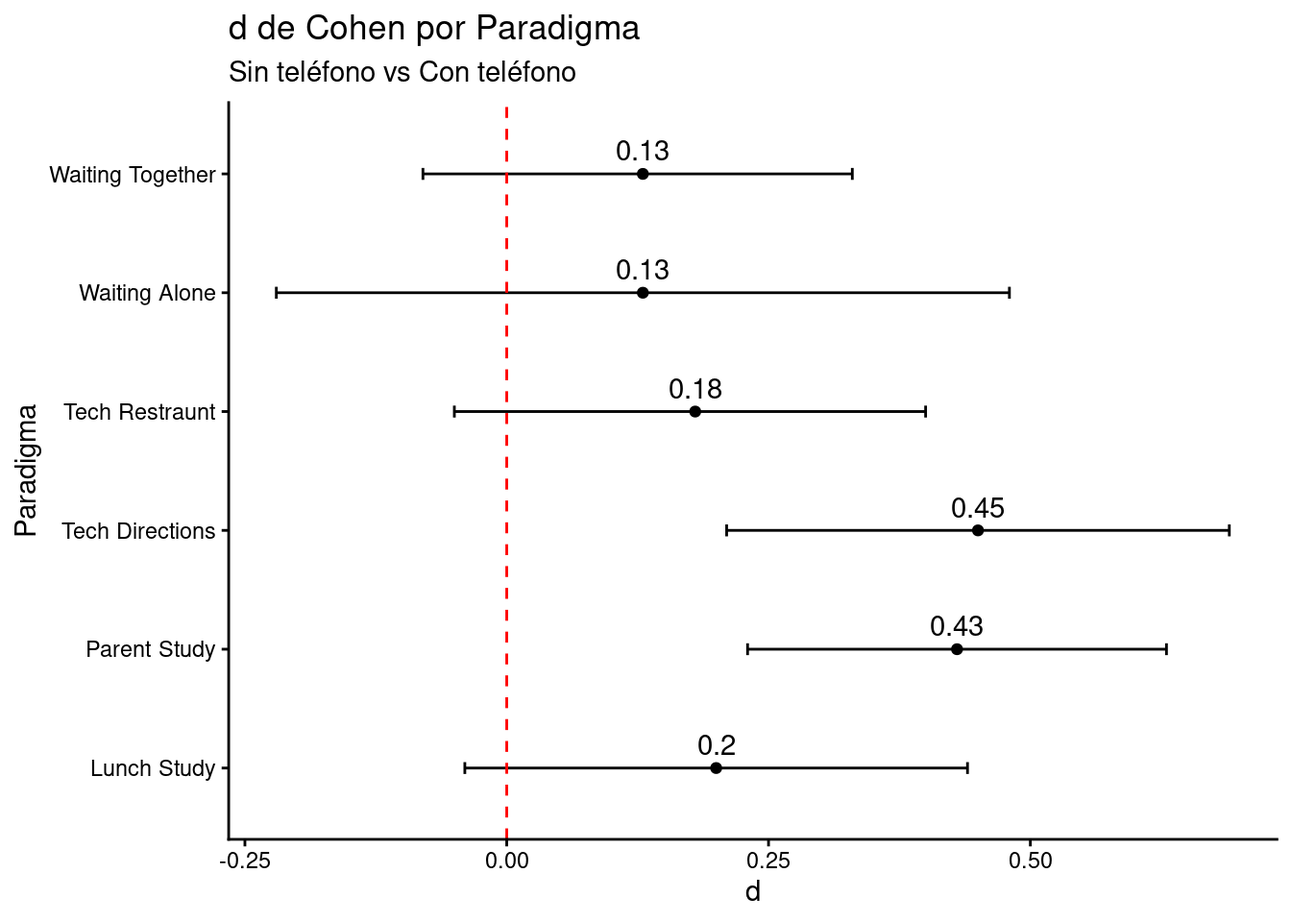
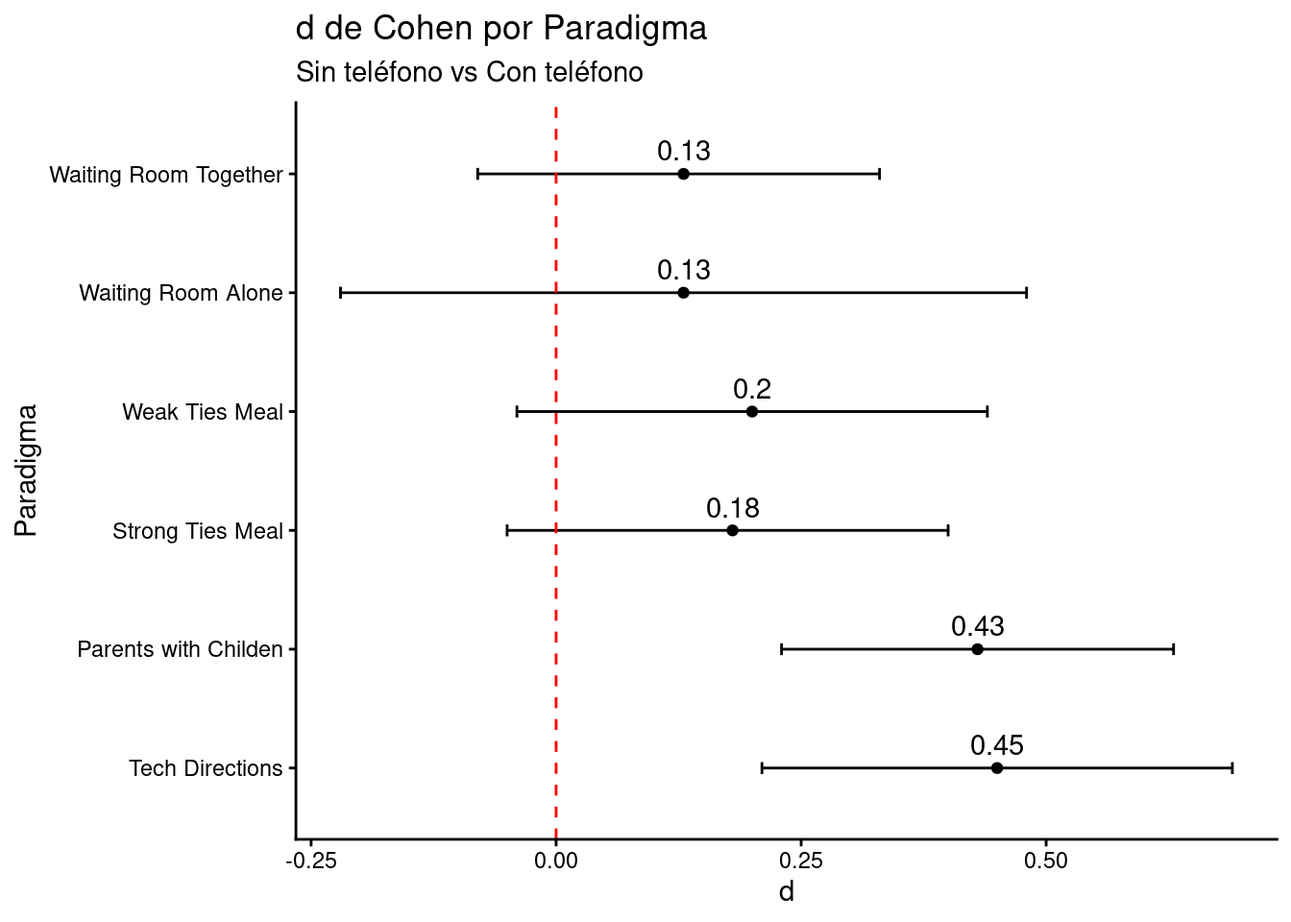
scripts con gráfico y ***

diff --git a/inferencia-u5/repeticion.html b/inferencia-u5/repeticion.html
@@ -145,67 +145,26 @@ Loading required package: effectsize</code></pre>
 <h3 class="anchored" data-anchor-id="importación-de-datos">Importación de Datos</h3>
 <div class="cell">
 <div class="code-copy-outer-scaffold"><div class="sourceCode cell-code" id="cb4"><pre class="sourceCode r code-with-copy"><code class="sourceCode r"><span id="cb4-1"><a href="#cb4-1" aria-hidden="true" tabindex="-1"></a>mega_analysis <span class="ot">&lt;-</span> <span class="fu">read_sav</span>(<span class="st">"articles/x73m9-osfstorage-archive-mega/MegaAnalysisMaster.sav"</span>)</span>
-<span id="cb4-2"><a href="#cb4-2" aria-hidden="true" tabindex="-1"></a>tech_directions <span class="ot">&lt;-</span> <span class="fu">read_sav</span>(<span class="st">"articles/x73m9-osfstorage-archive-mega/Tech_Directions_Tight.sav"</span>)</span>
-<span id="cb4-3"><a href="#cb4-3" aria-hidden="true" tabindex="-1"></a></span>
-<span id="cb4-4"><a href="#cb4-4" aria-hidden="true" tabindex="-1"></a><span class="fu">head</span>(mega_analysis)</span></code></pre></div><button title="Copy to Clipboard" class="code-copy-button"><i class="bi"></i></button></div>
-<div class="cell-output cell-output-stdout">
-<pre><code># A tibble: 6 × 125
-  Has_Phone_ToFix Group   Age Gender_ToFix Feel_Distant Feel_Close Has_Phone
-            &lt;dbl&gt; &lt;dbl&gt; &lt;dbl&gt;        &lt;dbl&gt;        &lt;dbl&gt;      &lt;dbl&gt;     &lt;dbl&gt;
-1               0    73    37            2            0          6        NA
-2               1     0    17            1            5          2         0
-3               1     0    18            0            1          6         0
-4               1     0    18            0            2          7         0
-5               1     0    18            0            4          4         0
-6               1     0    18            0            4          6         0
-# ℹ 118 more variables: Gender &lt;dbl&gt;, Emotional_Valance_Std &lt;dbl&gt;,
-#   Feel_Distant_Std &lt;dbl&gt;, Feel_Close_Std &lt;dbl&gt;, SocialConnection &lt;dbl&gt;,
-#   SocialConnection_Std &lt;dbl&gt;, Phone_Use_During_Work &lt;dbl&gt;,
-#   Phone_Use_During_Entertain &lt;dbl&gt;, Phone_Use_During_SocMedia &lt;dbl&gt;,
-#   Phone_Use_During_Socialize &lt;dbl&gt;, Valence &lt;dbl&gt;, Phone_Use_Frequency &lt;dbl&gt;,
-#   Phone_Use_Frequency_Std &lt;dbl&gt;, Distracted &lt;dbl&gt;, Concentrated &lt;dbl&gt;,
-#   ConcentratedR &lt;dbl&gt;, DistractComb &lt;dbl&gt;, DistractComb_Std &lt;dbl&gt;, …</code></pre>
-</div>
+<span id="cb4-2"><a href="#cb4-2" aria-hidden="true" tabindex="-1"></a>tech_directions <span class="ot">&lt;-</span> <span class="fu">read_sav</span>(<span class="st">"articles/x73m9-osfstorage-archive-mega/Tech_Directions_Tight.sav"</span>)</span></code></pre></div><button title="Copy to Clipboard" class="code-copy-button"><i class="bi"></i></button></div>
 </div>
 <div class="cell">
-<div class="code-copy-outer-scaffold"><div class="sourceCode cell-code" id="cb6"><pre class="sourceCode r code-with-copy"><code class="sourceCode r"><span id="cb6-1"><a href="#cb6-1" aria-hidden="true" tabindex="-1"></a><span class="fu">head</span>(tech_directions)</span></code></pre></div><button title="Copy to Clipboard" class="code-copy-button"><i class="bi"></i></button></div>
-<div class="cell-output cell-output-stdout">
-<pre><code># A tibble: 6 × 78
-  Has_Phone_ToFix        Condition_Success_USENOUSE Group ExclusionReasons   Age
-  &lt;dbl+lbl&gt;              &lt;dbl+lbl&gt;                  &lt;dbl&gt; &lt;chr&gt;            &lt;dbl&gt;
-1 1 [no phone condition] NA                            29 ""                  23
-2 1 [no phone condition] NA                           168 ""                  18
-3 2 [Phone Condition]    NA                            41 ""                  21
-4 2 [Phone Condition]    NA                           129 ""                  18
-5 2 [Phone Condition]    NA                            61 ""                  18
-6 1 [no phone condition] NA                           119 ""                  21
-# ℹ 73 more variables: Gender_ToFix &lt;dbl+lbl&gt;, Gender_Other &lt;chr&gt;,
-#   Ethnicity &lt;dbl+lbl&gt;, Other_Ethnicity &lt;chr&gt;, Feel_Distant &lt;dbl+lbl&gt;,
-#   Feel_Close &lt;dbl+lbl&gt;, Phone_Type &lt;dbl+lbl&gt;, Phone_Type_Other &lt;chr&gt;,
-#   Use_Phone_During &lt;dbl+lbl&gt;, Phone_Status_During &lt;dbl+lbl&gt;,
-#   Use_Phone_Rater &lt;dbl+lbl&gt;, Phone_Use_During_Work &lt;dbl+lbl&gt;,
-#   Phone_Use_During_Entertain &lt;dbl+lbl&gt;, Phone_Use_During_SocMedia &lt;dbl+lbl&gt;,
-#   Phone_Use_During_Socialize &lt;dbl+lbl&gt;, …</code></pre>
-</div>
-</div>
-<div class="cell">
-<div class="code-copy-outer-scaffold"><div class="sourceCode cell-code" id="cb8"><pre class="sourceCode r code-with-copy"><code class="sourceCode r"><span id="cb8-1"><a href="#cb8-1" aria-hidden="true" tabindex="-1"></a><span class="do">### Conversión de variables cualitativas a factores</span></span>
-<span id="cb8-2"><a href="#cb8-2" aria-hidden="true" tabindex="-1"></a>mega_analysis<span class="sc">$</span>Gender <span class="ot">&lt;-</span> <span class="fu">as.factor</span>(mega_analysis<span class="sc">$</span>Gender)</span>
-<span id="cb8-3"><a href="#cb8-3" aria-hidden="true" tabindex="-1"></a>mega_analysis<span class="sc">$</span>Has_Phone <span class="ot">&lt;-</span> <span class="fu">as.factor</span>(mega_analysis<span class="sc">$</span>Has_Phone)</span>
-<span id="cb8-4"><a href="#cb8-4" aria-hidden="true" tabindex="-1"></a></span>
-<span id="cb8-5"><a href="#cb8-5" aria-hidden="true" tabindex="-1"></a>mega_analysis<span class="sc">$</span>Gender <span class="ot">&lt;-</span> <span class="fu">recode_factor</span>(mega_analysis<span class="sc">$</span>Gender, <span class="st">`</span><span class="at">0</span><span class="st">`</span> <span class="ot">=</span> <span class="st">"Female"</span>, <span class="st">`</span><span class="at">1</span><span class="st">`</span> <span class="ot">=</span> <span class="st">"Male"</span>)</span>
-<span id="cb8-6"><a href="#cb8-6" aria-hidden="true" tabindex="-1"></a>mega_analysis<span class="sc">$</span>Has_Phone<span class="ot">&lt;-</span> <span class="fu">recode_factor</span>(mega_analysis<span class="sc">$</span>Has_Phone, <span class="st">`</span><span class="at">0</span><span class="st">`</span> <span class="ot">=</span> <span class="st">"No Phone"</span>, <span class="st">`</span><span class="at">1</span><span class="st">`</span> <span class="ot">=</span> <span class="st">"Phone"</span>)</span>
-<span id="cb8-7"><a href="#cb8-7" aria-hidden="true" tabindex="-1"></a></span>
-<span id="cb8-8"><a href="#cb8-8" aria-hidden="true" tabindex="-1"></a>mega_analysis<span class="sc">$</span>ParadigmsCombined_Factor <span class="ot">&lt;-</span> <span class="fu">recode_factor</span>(mega_analysis<span class="sc">$</span>ParadigmsCombined, <span class="st">`</span><span class="at">1</span><span class="st">`</span> <span class="ot">=</span> <span class="st">"Tech Directions"</span>, <span class="st">`</span><span class="at">2</span><span class="st">`</span> <span class="ot">=</span> <span class="st">"Tech Restraunt"</span>, <span class="st">`</span><span class="at">3</span><span class="st">`</span> <span class="ot">=</span> <span class="st">"Waiting Alone"</span>, <span class="st">`</span><span class="at">4</span><span class="st">`</span> <span class="ot">=</span> <span class="st">"Waiting Together"</span>, <span class="st">`</span><span class="at">5</span><span class="st">`</span> <span class="ot">=</span> <span class="st">"Parent Study"</span>, <span class="st">`</span><span class="at">6</span><span class="st">`</span> <span class="ot">=</span> <span class="st">"Lunch Study"</span>)</span>
-<span id="cb8-9"><a href="#cb8-9" aria-hidden="true" tabindex="-1"></a></span>
-<span id="cb8-10"><a href="#cb8-10" aria-hidden="true" tabindex="-1"></a>mega_analysis_graphs <span class="ot">&lt;-</span> <span class="fu">subset</span>(mega_analysis, Gender <span class="sc">==</span> <span class="st">"Female"</span> <span class="sc">|</span> Gender <span class="sc">==</span> <span class="st">"Male"</span>)</span>
-<span id="cb8-11"><a href="#cb8-11" aria-hidden="true" tabindex="-1"></a>mega_analysis_graphs <span class="ot">&lt;-</span> <span class="fu">subset</span>(mega_analysis_graphs, Has_Phone <span class="sc">==</span> <span class="st">"No Phone"</span><span class="sc">|</span>  Has_Phone <span class="sc">==</span> <span class="st">"Phone"</span>)</span>
-<span id="cb8-12"><a href="#cb8-12" aria-hidden="true" tabindex="-1"></a></span>
-<span id="cb8-13"><a href="#cb8-13" aria-hidden="true" tabindex="-1"></a></span>
-<span id="cb8-14"><a href="#cb8-14" aria-hidden="true" tabindex="-1"></a>tech_directions<span class="sc">$</span>Gender <span class="ot">&lt;-</span> <span class="fu">as.factor</span>(tech_directions<span class="sc">$</span>Gender)</span>
-<span id="cb8-15"><a href="#cb8-15" aria-hidden="true" tabindex="-1"></a>tech_directions<span class="sc">$</span>Has_Phone <span class="ot">&lt;-</span> <span class="fu">as.factor</span>(tech_directions<span class="sc">$</span>Has_Phone)</span>
-<span id="cb8-16"><a href="#cb8-16" aria-hidden="true" tabindex="-1"></a>tech_directions<span class="sc">$</span>Gender <span class="ot">&lt;-</span> <span class="fu">recode_factor</span>(tech_directions<span class="sc">$</span>Gender, <span class="st">`</span><span class="at">0</span><span class="st">`</span> <span class="ot">=</span> <span class="st">"Female"</span>, <span class="st">`</span><span class="at">1</span><span class="st">`</span> <span class="ot">=</span> <span class="st">"Male"</span>)</span>
-<span id="cb8-17"><a href="#cb8-17" aria-hidden="true" tabindex="-1"></a>tech_directions<span class="sc">$</span>Has_Phone<span class="ot">&lt;-</span> <span class="fu">recode_factor</span>(tech_directions<span class="sc">$</span>Has_Phone, <span class="st">`</span><span class="at">0</span><span class="st">`</span> <span class="ot">=</span> <span class="st">"No Phone"</span>, <span class="st">`</span><span class="at">1</span><span class="st">`</span> <span class="ot">=</span> <span class="st">"Phone"</span>)</span></code></pre></div><button title="Copy to Clipboard" class="code-copy-button"><i class="bi"></i></button></div>
+<div class="code-copy-outer-scaffold"><div class="sourceCode cell-code" id="cb5"><pre class="sourceCode r code-with-copy"><code class="sourceCode r"><span id="cb5-1"><a href="#cb5-1" aria-hidden="true" tabindex="-1"></a><span class="do">### Conversión de variables cualitativas a factores</span></span>
+<span id="cb5-2"><a href="#cb5-2" aria-hidden="true" tabindex="-1"></a>mega_analysis<span class="sc">$</span>Gender <span class="ot">&lt;-</span> <span class="fu">as.factor</span>(mega_analysis<span class="sc">$</span>Gender)</span>
+<span id="cb5-3"><a href="#cb5-3" aria-hidden="true" tabindex="-1"></a>mega_analysis<span class="sc">$</span>Has_Phone <span class="ot">&lt;-</span> <span class="fu">as.factor</span>(mega_analysis<span class="sc">$</span>Has_Phone)</span>
+<span id="cb5-4"><a href="#cb5-4" aria-hidden="true" tabindex="-1"></a></span>
+<span id="cb5-5"><a href="#cb5-5" aria-hidden="true" tabindex="-1"></a>mega_analysis<span class="sc">$</span>Gender <span class="ot">&lt;-</span> <span class="fu">recode_factor</span>(mega_analysis<span class="sc">$</span>Gender, <span class="st">`</span><span class="at">0</span><span class="st">`</span> <span class="ot">=</span> <span class="st">"Female"</span>, <span class="st">`</span><span class="at">1</span><span class="st">`</span> <span class="ot">=</span> <span class="st">"Male"</span>)</span>
+<span id="cb5-6"><a href="#cb5-6" aria-hidden="true" tabindex="-1"></a>mega_analysis<span class="sc">$</span>Has_Phone<span class="ot">&lt;-</span> <span class="fu">recode_factor</span>(mega_analysis<span class="sc">$</span>Has_Phone, <span class="st">`</span><span class="at">0</span><span class="st">`</span> <span class="ot">=</span> <span class="st">"No Phone"</span>, <span class="st">`</span><span class="at">1</span><span class="st">`</span> <span class="ot">=</span> <span class="st">"Phone"</span>)</span>
+<span id="cb5-7"><a href="#cb5-7" aria-hidden="true" tabindex="-1"></a></span>
+<span id="cb5-8"><a href="#cb5-8" aria-hidden="true" tabindex="-1"></a>mega_analysis<span class="sc">$</span>ParadigmsCombined_Factor <span class="ot">&lt;-</span> <span class="fu">recode_factor</span>(mega_analysis<span class="sc">$</span>ParadigmsCombined, <span class="st">`</span><span class="at">1</span><span class="st">`</span> <span class="ot">=</span> <span class="st">"Tech Directions"</span>, <span class="st">`</span><span class="at">2</span><span class="st">`</span> <span class="ot">=</span> <span class="st">"Strong Ties Meal"</span>, <span class="st">`</span><span class="at">3</span><span class="st">`</span> <span class="ot">=</span> <span class="st">"Waiting Room Alone"</span>, <span class="st">`</span><span class="at">4</span><span class="st">`</span> <span class="ot">=</span> <span class="st">"Waiting Room Together"</span>, <span class="st">`</span><span class="at">5</span><span class="st">`</span> <span class="ot">=</span> <span class="st">"Parents with Childen"</span>, <span class="st">`</span><span class="at">6</span><span class="st">`</span> <span class="ot">=</span> <span class="st">"Weak Ties Meal"</span>)</span>
+<span id="cb5-9"><a href="#cb5-9" aria-hidden="true" tabindex="-1"></a></span>
+<span id="cb5-10"><a href="#cb5-10" aria-hidden="true" tabindex="-1"></a>mega_analysis_graphs <span class="ot">&lt;-</span> <span class="fu">subset</span>(mega_analysis, Gender <span class="sc">==</span> <span class="st">"Female"</span> <span class="sc">|</span> Gender <span class="sc">==</span> <span class="st">"Male"</span>)</span>
+<span id="cb5-11"><a href="#cb5-11" aria-hidden="true" tabindex="-1"></a>mega_analysis_graphs <span class="ot">&lt;-</span> <span class="fu">subset</span>(mega_analysis_graphs, Has_Phone <span class="sc">==</span> <span class="st">"No Phone"</span><span class="sc">|</span>  Has_Phone <span class="sc">==</span> <span class="st">"Phone"</span>)</span>
+<span id="cb5-12"><a href="#cb5-12" aria-hidden="true" tabindex="-1"></a></span>
+<span id="cb5-13"><a href="#cb5-13" aria-hidden="true" tabindex="-1"></a></span>
+<span id="cb5-14"><a href="#cb5-14" aria-hidden="true" tabindex="-1"></a>tech_directions<span class="sc">$</span>Gender <span class="ot">&lt;-</span> <span class="fu">as.factor</span>(tech_directions<span class="sc">$</span>Gender)</span>
+<span id="cb5-15"><a href="#cb5-15" aria-hidden="true" tabindex="-1"></a>tech_directions<span class="sc">$</span>Has_Phone <span class="ot">&lt;-</span> <span class="fu">as.factor</span>(tech_directions<span class="sc">$</span>Has_Phone)</span>
+<span id="cb5-16"><a href="#cb5-16" aria-hidden="true" tabindex="-1"></a>tech_directions<span class="sc">$</span>Gender <span class="ot">&lt;-</span> <span class="fu">recode_factor</span>(tech_directions<span class="sc">$</span>Gender, <span class="st">`</span><span class="at">0</span><span class="st">`</span> <span class="ot">=</span> <span class="st">"Female"</span>, <span class="st">`</span><span class="at">1</span><span class="st">`</span> <span class="ot">=</span> <span class="st">"Male"</span>)</span>
+<span id="cb5-17"><a href="#cb5-17" aria-hidden="true" tabindex="-1"></a>tech_directions<span class="sc">$</span>Has_Phone<span class="ot">&lt;-</span> <span class="fu">recode_factor</span>(tech_directions<span class="sc">$</span>Has_Phone, <span class="st">`</span><span class="at">0</span><span class="st">`</span> <span class="ot">=</span> <span class="st">"No Phone"</span>, <span class="st">`</span><span class="at">1</span><span class="st">`</span> <span class="ot">=</span> <span class="st">"Phone"</span>)</span></code></pre></div><button title="Copy to Clipboard" class="code-copy-button"><i class="bi"></i></button></div>
 </div>
 </section>
 </section>
@@ -214,11 +173,11 @@ Loading required package: effectsize</code></pre>
 <section id="numero-de-observaciones" class="level3">
 <h3 class="anchored" data-anchor-id="numero-de-observaciones">Numero de observaciones</h3>
 <div class="cell">
-<div class="code-copy-outer-scaffold"><div class="sourceCode cell-code" id="cb9"><pre class="sourceCode r code-with-copy"><code class="sourceCode r"><span id="cb9-1"><a href="#cb9-1" aria-hidden="true" tabindex="-1"></a>model_data <span class="ot">&lt;-</span> mega_analysis[, <span class="fu">c</span>(<span class="st">"SocialConnection_Std"</span>, <span class="st">"Age"</span>, <span class="st">"Has_Phone"</span>, <span class="st">"Gender"</span>, <span class="st">"ParadigmsCombined_Factor"</span>)]</span>
-<span id="cb9-2"><a href="#cb9-2" aria-hidden="true" tabindex="-1"></a><span class="fu">print</span>(<span class="fu">data.frame</span>(</span>
-<span id="cb9-3"><a href="#cb9-3" aria-hidden="true" tabindex="-1"></a>  <span class="at">todos=</span><span class="fu">c</span>(<span class="fu">nrow</span>(model_data)),</span>
-<span id="cb9-4"><a href="#cb9-4" aria-hidden="true" tabindex="-1"></a>  <span class="at">casos_completos=</span><span class="fu">c</span>(<span class="fu">sum</span>(<span class="fu">complete.cases</span>(model_data))),</span>
-<span id="cb9-5"><a href="#cb9-5" aria-hidden="true" tabindex="-1"></a>  <span class="at">casos_incompletos=</span><span class="fu">c</span>(<span class="fu">sum</span>(<span class="sc">!</span><span class="fu">complete.cases</span>(model_data)))))</span></code></pre></div><button title="Copy to Clipboard" class="code-copy-button"><i class="bi"></i></button></div>
+<div class="code-copy-outer-scaffold"><div class="sourceCode cell-code" id="cb6"><pre class="sourceCode r code-with-copy"><code class="sourceCode r"><span id="cb6-1"><a href="#cb6-1" aria-hidden="true" tabindex="-1"></a>model_data <span class="ot">&lt;-</span> mega_analysis[, <span class="fu">c</span>(<span class="st">"SocialConnection_Std"</span>, <span class="st">"Age"</span>, <span class="st">"Has_Phone"</span>, <span class="st">"Gender"</span>, <span class="st">"ParadigmsCombined_Factor"</span>)]</span>
+<span id="cb6-2"><a href="#cb6-2" aria-hidden="true" tabindex="-1"></a><span class="fu">print</span>(<span class="fu">data.frame</span>(</span>
+<span id="cb6-3"><a href="#cb6-3" aria-hidden="true" tabindex="-1"></a>  <span class="at">todos=</span><span class="fu">c</span>(<span class="fu">nrow</span>(model_data)),</span>
+<span id="cb6-4"><a href="#cb6-4" aria-hidden="true" tabindex="-1"></a>  <span class="at">casos_completos=</span><span class="fu">c</span>(<span class="fu">sum</span>(<span class="fu">complete.cases</span>(model_data))),</span>
+<span id="cb6-5"><a href="#cb6-5" aria-hidden="true" tabindex="-1"></a>  <span class="at">casos_incompletos=</span><span class="fu">c</span>(<span class="fu">sum</span>(<span class="sc">!</span><span class="fu">complete.cases</span>(model_data)))))</span></code></pre></div><button title="Copy to Clipboard" class="code-copy-button"><i class="bi"></i></button></div>
 <div class="cell-output cell-output-stdout">
 <pre><code>  todos casos_completos casos_incompletos
 1  1845            1688               157</code></pre>
@@ -228,67 +187,120 @@ Loading required package: effectsize</code></pre>
 <section id="tabla-2" class="level3">
 <h3 class="anchored" data-anchor-id="tabla-2">Tabla 2</h3>
 <div class="cell">
-<div class="code-copy-outer-scaffold"><div class="sourceCode cell-code" id="cb11"><pre class="sourceCode r code-with-copy"><code class="sourceCode r"><span id="cb11-1"><a href="#cb11-1" aria-hidden="true" tabindex="-1"></a>mega_analysis_complete <span class="ot">&lt;-</span> mega_analysis[<span class="fu">complete.cases</span>(mega_analysis[, <span class="fu">c</span>(<span class="st">"SocialConnection_Std"</span>, <span class="st">"Age"</span>, <span class="st">"Has_Phone"</span>, <span class="st">"Gender"</span>, <span class="st">"ParadigmsCombined_Factor"</span>)]),]</span>
-<span id="cb11-2"><a href="#cb11-2" aria-hidden="true" tabindex="-1"></a><span class="fu">contrasts</span>(mega_analysis_complete<span class="sc">$</span>ParadigmsCombined_Factor) <span class="ot">=</span> <span class="fu">contr.sum</span>(<span class="dv">6</span>)</span>
-<span id="cb11-3"><a href="#cb11-3" aria-hidden="true" tabindex="-1"></a></span>
-<span id="cb11-4"><a href="#cb11-4" aria-hidden="true" tabindex="-1"></a>SocInitial <span class="ot">&lt;-</span> <span class="fu">lm</span>(SocialConnection_Std <span class="sc">~</span>Age <span class="sc">+</span> Has_Phone<span class="sc">*</span>Gender <span class="sc">+</span>Has_Phone<span class="sc">*</span>ParadigmsCombined_Factor, mega_analysis_complete)</span>
-<span id="cb11-5"><a href="#cb11-5" aria-hidden="true" tabindex="-1"></a>modelo_ini_resumen <span class="ot">&lt;-</span> <span class="fu">summary</span>(SocInitial)</span>
-<span id="cb11-6"><a href="#cb11-6" aria-hidden="true" tabindex="-1"></a>modelo_ini_betas <span class="ot">&lt;-</span> lm.beta<span class="sc">::</span><span class="fu">lm.beta</span>(SocInitial)</span>
-<span id="cb11-7"><a href="#cb11-7" aria-hidden="true" tabindex="-1"></a>modelo_ini_ci <span class="ot">&lt;-</span> <span class="fu">confint</span>(SocInitial)</span>
-<span id="cb11-8"><a href="#cb11-8" aria-hidden="true" tabindex="-1"></a></span>
-<span id="cb11-9"><a href="#cb11-9" aria-hidden="true" tabindex="-1"></a>tabla2 <span class="ot">&lt;-</span> <span class="fu">data.frame</span>(</span>
-<span id="cb11-10"><a href="#cb11-10" aria-hidden="true" tabindex="-1"></a>                     <span class="at">beta=</span><span class="fu">round</span>(modelo_ini_betas<span class="sc">$</span>standardized.coefficients,<span class="dv">2</span>),</span>
-<span id="cb11-11"><a href="#cb11-11" aria-hidden="true" tabindex="-1"></a>                     <span class="at">b=</span><span class="fu">round</span>(modelo_ini_resumen<span class="sc">$</span>coefficients[,<span class="st">"Estimate"</span>],<span class="dv">2</span>),</span>
-<span id="cb11-12"><a href="#cb11-12" aria-hidden="true" tabindex="-1"></a>                     <span class="at">b_ic_low=</span><span class="fu">round</span>(modelo_ini_ci[,<span class="dv">1</span>],<span class="dv">2</span>), </span>
-<span id="cb11-13"><a href="#cb11-13" aria-hidden="true" tabindex="-1"></a>                     <span class="at">b_ic_high=</span><span class="fu">round</span>(modelo_ini_ci[,<span class="dv">2</span>],<span class="dv">2</span>), </span>
-<span id="cb11-14"><a href="#cb11-14" aria-hidden="true" tabindex="-1"></a>                     <span class="at">t=</span><span class="fu">round</span>(modelo_ini_resumen<span class="sc">$</span>coefficients[,<span class="st">"t value"</span>],<span class="dv">2</span>))</span>
-<span id="cb11-15"><a href="#cb11-15" aria-hidden="true" tabindex="-1"></a></span>
-<span id="cb11-16"><a href="#cb11-16" aria-hidden="true" tabindex="-1"></a><span class="fu">rownames</span>(tabla2) <span class="ot">&lt;-</span> <span class="fu">c</span>(</span>
-<span id="cb11-17"><a href="#cb11-17" aria-hidden="true" tabindex="-1"></a>  <span class="st">"(Intercept)"</span>, </span>
-<span id="cb11-18"><a href="#cb11-18" aria-hidden="true" tabindex="-1"></a>  <span class="st">"Age"</span>, </span>
-<span id="cb11-19"><a href="#cb11-19" aria-hidden="true" tabindex="-1"></a>  <span class="st">"Condition (phone=1, no-phone=0)"</span>, </span>
-<span id="cb11-20"><a href="#cb11-20" aria-hidden="true" tabindex="-1"></a>  <span class="st">"Gender (man=1, woman=0)"</span>,</span>
-<span id="cb11-21"><a href="#cb11-21" aria-hidden="true" tabindex="-1"></a>  <span class="st">"Getting directions"</span>,</span>
-<span id="cb11-22"><a href="#cb11-22" aria-hidden="true" tabindex="-1"></a>  <span class="st">"Strong ties meal"</span>,</span>
-<span id="cb11-23"><a href="#cb11-23" aria-hidden="true" tabindex="-1"></a>  <span class="st">"Waiting alone"</span>,</span>
-<span id="cb11-24"><a href="#cb11-24" aria-hidden="true" tabindex="-1"></a>  <span class="st">"Waiting together"</span>,</span>
-<span id="cb11-25"><a href="#cb11-25" aria-hidden="true" tabindex="-1"></a>  <span class="st">"Parents with children"</span>,</span>
-<span id="cb11-26"><a href="#cb11-26" aria-hidden="true" tabindex="-1"></a>  <span class="st">"Condition x Gender"</span>,</span>
-<span id="cb11-27"><a href="#cb11-27" aria-hidden="true" tabindex="-1"></a>  <span class="st">"Condition x Getting directions"</span>,</span>
-<span id="cb11-28"><a href="#cb11-28" aria-hidden="true" tabindex="-1"></a>  <span class="st">"Condition x Strong ties meal"</span>,</span>
-<span id="cb11-29"><a href="#cb11-29" aria-hidden="true" tabindex="-1"></a>  <span class="st">"Condition x Waiting alone"</span>,</span>
-<span id="cb11-30"><a href="#cb11-30" aria-hidden="true" tabindex="-1"></a>  <span class="st">"Condition x Waiting together"</span>,</span>
-<span id="cb11-31"><a href="#cb11-31" aria-hidden="true" tabindex="-1"></a>  <span class="st">"Condition x Parents with children"</span>)</span>
-<span id="cb11-32"><a href="#cb11-32" aria-hidden="true" tabindex="-1"></a><span class="fu">print</span>(tabla2)</span></code></pre></div><button title="Copy to Clipboard" class="code-copy-button"><i class="bi"></i></button></div>
+<div class="code-copy-outer-scaffold"><div class="sourceCode cell-code" id="cb8"><pre class="sourceCode r code-with-copy"><code class="sourceCode r"><span id="cb8-1"><a href="#cb8-1" aria-hidden="true" tabindex="-1"></a>mega_analysis_complete <span class="ot">&lt;-</span> mega_analysis[<span class="fu">complete.cases</span>(mega_analysis[, <span class="fu">c</span>(<span class="st">"SocialConnection_Std"</span>, <span class="st">"Age"</span>, <span class="st">"Has_Phone"</span>, <span class="st">"Gender"</span>, <span class="st">"ParadigmsCombined_Factor"</span>)]),]</span>
+<span id="cb8-2"><a href="#cb8-2" aria-hidden="true" tabindex="-1"></a><span class="fu">contrasts</span>(mega_analysis_complete<span class="sc">$</span>ParadigmsCombined_Factor) <span class="ot">=</span> <span class="fu">contr.sum</span>(<span class="dv">6</span>)</span>
+<span id="cb8-3"><a href="#cb8-3" aria-hidden="true" tabindex="-1"></a></span>
+<span id="cb8-4"><a href="#cb8-4" aria-hidden="true" tabindex="-1"></a>SocInitial <span class="ot">&lt;-</span> <span class="fu">lm</span>(SocialConnection_Std <span class="sc">~</span>Age <span class="sc">+</span> Has_Phone<span class="sc">*</span>Gender <span class="sc">+</span>Has_Phone<span class="sc">*</span>ParadigmsCombined_Factor, mega_analysis_complete)</span>
+<span id="cb8-5"><a href="#cb8-5" aria-hidden="true" tabindex="-1"></a>modelo_ini_resumen <span class="ot">&lt;-</span> <span class="fu">summary</span>(SocInitial)</span>
+<span id="cb8-6"><a href="#cb8-6" aria-hidden="true" tabindex="-1"></a>modelo_ini_betas <span class="ot">&lt;-</span> lm.beta<span class="sc">::</span><span class="fu">lm.beta</span>(SocInitial)</span>
+<span id="cb8-7"><a href="#cb8-7" aria-hidden="true" tabindex="-1"></a>modelo_ini_ci <span class="ot">&lt;-</span> <span class="fu">confint</span>(SocInitial)</span>
+<span id="cb8-8"><a href="#cb8-8" aria-hidden="true" tabindex="-1"></a>modelo_ini_resumen</span></code></pre></div><button title="Copy to Clipboard" class="code-copy-button"><i class="bi"></i></button></div>
 <div class="cell-output cell-output-stdout">
-<pre><code>                                   beta     b b_ic_low b_ic_high     t
-(Intercept)                          NA  0.01    -0.20      0.22  0.12
-Age                                0.04  0.00     0.00      0.01  0.90
-Condition (phone=1, no-phone=0)   -0.07 -0.14    -0.26     -0.02 -2.35
-Gender (man=1, woman=0)            0.01  0.02    -0.12      0.16  0.29
-Getting directions                 0.07  0.12    -0.03      0.28  1.57
-Strong ties meal                  -0.05 -0.09    -0.25      0.07 -1.15
-Waiting alone                     -0.03 -0.06    -0.26      0.15 -0.56
-Waiting together                  -0.02 -0.03    -0.17      0.11 -0.42
-Parents with children              0.02  0.04    -0.13      0.20  0.45
-Condition x Gender                -0.11 -0.31    -0.52     -0.11 -3.02
-Condition x Getting directions    -0.09 -0.21    -0.42      0.00 -1.95
-Condition x Strong ties meal       0.07  0.16    -0.05      0.38  1.46
-Condition x Waiting alone          0.04  0.11    -0.18      0.41  0.74
-Condition x Waiting together       0.05  0.11    -0.08      0.30  1.18
-Condition x Parents with children -0.07 -0.17    -0.35      0.02 -1.77</code></pre>
+<pre><code>
+Call:
+lm(formula = SocialConnection_Std ~ Age + Has_Phone * Gender + 
+    Has_Phone * ParadigmsCombined_Factor, data = mega_analysis_complete)
+
+Residuals:
+    Min      1Q  Median      3Q     Max 
+-4.6054 -0.6324  0.1604  0.6958  4.3158 
+
+Coefficients:
+                                          Estimate Std. Error t value Pr(&gt;|t|)
+(Intercept)                               0.012566   0.107682   0.117  0.90712
+Age                                       0.003708   0.004123   0.899  0.36863
+Has_PhonePhone                           -0.139484   0.059277  -2.353  0.01873
+GenderMale                                0.021224   0.072725   0.292  0.77045
+ParadigmsCombined_Factor1                 0.124210   0.078903   1.574  0.11563
+ParadigmsCombined_Factor2                -0.092528   0.080615  -1.148  0.25123
+ParadigmsCombined_Factor3                -0.058542   0.105167  -0.557  0.57784
+ParadigmsCombined_Factor4                -0.030034   0.072188  -0.416  0.67743
+ParadigmsCombined_Factor5                 0.037924   0.084228   0.450  0.65259
+Has_PhonePhone:GenderMale                -0.314521   0.103991  -3.025  0.00253
+Has_PhonePhone:ParadigmsCombined_Factor1 -0.210155   0.107879  -1.948  0.05157
+Has_PhonePhone:ParadigmsCombined_Factor2  0.161873   0.110520   1.465  0.14321
+Has_PhonePhone:ParadigmsCombined_Factor3  0.111533   0.151008   0.739  0.46026
+Has_PhonePhone:ParadigmsCombined_Factor4  0.113894   0.096877   1.176  0.23990
+Has_PhonePhone:ParadigmsCombined_Factor5 -0.167931   0.094695  -1.773  0.07634
+                                           
+(Intercept)                                
+Age                                        
+Has_PhonePhone                           * 
+GenderMale                                 
+ParadigmsCombined_Factor1                  
+ParadigmsCombined_Factor2                  
+ParadigmsCombined_Factor3                  
+ParadigmsCombined_Factor4                  
+ParadigmsCombined_Factor5                  
+Has_PhonePhone:GenderMale                **
+Has_PhonePhone:ParadigmsCombined_Factor1 . 
+Has_PhonePhone:ParadigmsCombined_Factor2   
+Has_PhonePhone:ParadigmsCombined_Factor3   
+Has_PhonePhone:ParadigmsCombined_Factor4   
+Has_PhonePhone:ParadigmsCombined_Factor5 . 
+---
+Signif. codes:  0 '***' 0.001 '**' 0.01 '*' 0.05 '.' 0.1 ' ' 1
+
+Residual standard error: 0.968 on 1673 degrees of freedom
+Multiple R-squared:  0.03059,   Adjusted R-squared:  0.02248 
+F-statistic: 3.771 on 14 and 1673 DF,  p-value: 2.641e-06</code></pre>
+</div>
+</div>
+<div class="cell">
+<div class="code-copy-outer-scaffold"><div class="sourceCode cell-code" id="cb10"><pre class="sourceCode r code-with-copy"><code class="sourceCode r"><span id="cb10-1"><a href="#cb10-1" aria-hidden="true" tabindex="-1"></a>tabla2 <span class="ot">&lt;-</span> <span class="fu">data.frame</span>(</span>
+<span id="cb10-2"><a href="#cb10-2" aria-hidden="true" tabindex="-1"></a>                     <span class="at">beta=</span><span class="fu">round</span>(modelo_ini_betas<span class="sc">$</span>standardized.coefficients,<span class="dv">2</span>),</span>
+<span id="cb10-3"><a href="#cb10-3" aria-hidden="true" tabindex="-1"></a>                     <span class="at">b=</span><span class="fu">round</span>(modelo_ini_resumen<span class="sc">$</span>coefficients[,<span class="st">"Estimate"</span>],<span class="dv">2</span>),</span>
+<span id="cb10-4"><a href="#cb10-4" aria-hidden="true" tabindex="-1"></a>                     <span class="at">b_ic_low=</span><span class="fu">round</span>(modelo_ini_ci[,<span class="dv">1</span>],<span class="dv">2</span>), </span>
+<span id="cb10-5"><a href="#cb10-5" aria-hidden="true" tabindex="-1"></a>                     <span class="at">b_ic_high=</span><span class="fu">round</span>(modelo_ini_ci[,<span class="dv">2</span>],<span class="dv">2</span>), </span>
+<span id="cb10-6"><a href="#cb10-6" aria-hidden="true" tabindex="-1"></a>                     <span class="at">t=</span><span class="fu">round</span>(modelo_ini_resumen<span class="sc">$</span>coefficients[,<span class="st">"t value"</span>],<span class="dv">2</span>),</span>
+<span id="cb10-7"><a href="#cb10-7" aria-hidden="true" tabindex="-1"></a>                     <span class="at">stars=</span><span class="fu">ifelse</span>(modelo_ini_resumen<span class="sc">$</span>coefficients[,<span class="st">"Pr(&gt;|t|)"</span>]<span class="sc">&lt;</span><span class="fl">0.01</span>, <span class="st">"**"</span>, <span class="fu">ifelse</span>(modelo_ini_resumen<span class="sc">$</span>coefficients[,<span class="st">"Pr(&gt;|t|)"</span>]<span class="sc">&lt;</span><span class="fl">0.05</span>, <span class="st">"*"</span>, <span class="st">""</span>)))</span>
+<span id="cb10-8"><a href="#cb10-8" aria-hidden="true" tabindex="-1"></a></span>
+<span id="cb10-9"><a href="#cb10-9" aria-hidden="true" tabindex="-1"></a><span class="fu">rownames</span>(tabla2) <span class="ot">&lt;-</span> <span class="fu">c</span>(</span>
+<span id="cb10-10"><a href="#cb10-10" aria-hidden="true" tabindex="-1"></a>  <span class="st">"(Intercept)"</span>, </span>
+<span id="cb10-11"><a href="#cb10-11" aria-hidden="true" tabindex="-1"></a>  <span class="st">"Age"</span>, </span>
+<span id="cb10-12"><a href="#cb10-12" aria-hidden="true" tabindex="-1"></a>  <span class="st">"Condition (phone=1, no-phone=0)"</span>, </span>
+<span id="cb10-13"><a href="#cb10-13" aria-hidden="true" tabindex="-1"></a>  <span class="st">"Gender (man=1, woman=0)"</span>,</span>
+<span id="cb10-14"><a href="#cb10-14" aria-hidden="true" tabindex="-1"></a>  <span class="st">"Getting directions"</span>,</span>
+<span id="cb10-15"><a href="#cb10-15" aria-hidden="true" tabindex="-1"></a>  <span class="st">"Strong ties meal"</span>,</span>
+<span id="cb10-16"><a href="#cb10-16" aria-hidden="true" tabindex="-1"></a>  <span class="st">"Waiting alone"</span>,</span>
+<span id="cb10-17"><a href="#cb10-17" aria-hidden="true" tabindex="-1"></a>  <span class="st">"Waiting together"</span>,</span>
+<span id="cb10-18"><a href="#cb10-18" aria-hidden="true" tabindex="-1"></a>  <span class="st">"Parents with children"</span>,</span>
+<span id="cb10-19"><a href="#cb10-19" aria-hidden="true" tabindex="-1"></a>  <span class="st">"Condition x Gender"</span>,</span>
+<span id="cb10-20"><a href="#cb10-20" aria-hidden="true" tabindex="-1"></a>  <span class="st">"Condition x Getting directions"</span>,</span>
+<span id="cb10-21"><a href="#cb10-21" aria-hidden="true" tabindex="-1"></a>  <span class="st">"Condition x Strong ties meal"</span>,</span>
+<span id="cb10-22"><a href="#cb10-22" aria-hidden="true" tabindex="-1"></a>  <span class="st">"Condition x Waiting alone"</span>,</span>
+<span id="cb10-23"><a href="#cb10-23" aria-hidden="true" tabindex="-1"></a>  <span class="st">"Condition x Waiting together"</span>,</span>
+<span id="cb10-24"><a href="#cb10-24" aria-hidden="true" tabindex="-1"></a>  <span class="st">"Condition x Parents with children"</span>)</span>
+<span id="cb10-25"><a href="#cb10-25" aria-hidden="true" tabindex="-1"></a><span class="fu">print</span>(tabla2)</span></code></pre></div><button title="Copy to Clipboard" class="code-copy-button"><i class="bi"></i></button></div>
+<div class="cell-output cell-output-stdout">
+<pre><code>                                   beta     b b_ic_low b_ic_high     t stars
+(Intercept)                          NA  0.01    -0.20      0.22  0.12      
+Age                                0.04  0.00     0.00      0.01  0.90      
+Condition (phone=1, no-phone=0)   -0.07 -0.14    -0.26     -0.02 -2.35     *
+Gender (man=1, woman=0)            0.01  0.02    -0.12      0.16  0.29      
+Getting directions                 0.07  0.12    -0.03      0.28  1.57      
+Strong ties meal                  -0.05 -0.09    -0.25      0.07 -1.15      
+Waiting alone                     -0.03 -0.06    -0.26      0.15 -0.56      
+Waiting together                  -0.02 -0.03    -0.17      0.11 -0.42      
+Parents with children              0.02  0.04    -0.13      0.20  0.45      
+Condition x Gender                -0.11 -0.31    -0.52     -0.11 -3.02    **
+Condition x Getting directions    -0.09 -0.21    -0.42      0.00 -1.95      
+Condition x Strong ties meal       0.07  0.16    -0.05      0.38  1.46      
+Condition x Waiting alone          0.04  0.11    -0.18      0.41  0.74      
+Condition x Waiting together       0.05  0.11    -0.08      0.30  1.18      
+Condition x Parents with children -0.07 -0.17    -0.35      0.02 -1.77      </code></pre>
 </div>
 </div>
 </section>
 <section id="forest-plot" class="level3">
 <h3 class="anchored" data-anchor-id="forest-plot">Forest Plot</h3>
 <div class="cell">
-<div class="code-copy-outer-scaffold"><div class="sourceCode cell-code" id="cb13"><pre class="sourceCode r code-with-copy"><code class="sourceCode r"><span id="cb13-1"><a href="#cb13-1" aria-hidden="true" tabindex="-1"></a>ds <span class="ot">&lt;-</span> <span class="fu">sapply</span>(<span class="fu">levels</span>(mega_analysis<span class="sc">$</span>ParadigmsCombined_Factor), <span class="cf">function</span>(paradigm) {</span>
-<span id="cb13-2"><a href="#cb13-2" aria-hidden="true" tabindex="-1"></a>  d <span class="ot">&lt;-</span> mega_analysis <span class="sc">%&gt;%</span></span>
-<span id="cb13-3"><a href="#cb13-3" aria-hidden="true" tabindex="-1"></a>    <span class="fu">filter</span>(ParadigmsCombined_Factor <span class="sc">==</span> paradigm) <span class="sc">%&gt;%</span></span>
-<span id="cb13-4"><a href="#cb13-4" aria-hidden="true" tabindex="-1"></a>    <span class="fu">cohens_d</span>(SocialConnection_Std <span class="sc">~</span> Has_Phone, <span class="at">data =</span> .)   </span>
-<span id="cb13-5"><a href="#cb13-5" aria-hidden="true" tabindex="-1"></a>  <span class="fu">c</span>(<span class="fu">round</span>(d<span class="sc">$</span>Cohens_d,<span class="dv">2</span>), <span class="fu">round</span>(d<span class="sc">$</span>CI,<span class="dv">2</span>), <span class="fu">round</span>(d<span class="sc">$</span>CI_low,<span class="dv">2</span>), <span class="fu">round</span>(d<span class="sc">$</span>CI_high,<span class="dv">2</span>) )</span>
-<span id="cb13-6"><a href="#cb13-6" aria-hidden="true" tabindex="-1"></a>})</span></code></pre></div><button title="Copy to Clipboard" class="code-copy-button"><i class="bi"></i></button></div>
+<div class="code-copy-outer-scaffold"><div class="sourceCode cell-code" id="cb12"><pre class="sourceCode r code-with-copy"><code class="sourceCode r"><span id="cb12-1"><a href="#cb12-1" aria-hidden="true" tabindex="-1"></a>ds <span class="ot">&lt;-</span> <span class="fu">sapply</span>(<span class="fu">levels</span>(mega_analysis<span class="sc">$</span>ParadigmsCombined_Factor), <span class="cf">function</span>(paradigm) {</span>
+<span id="cb12-2"><a href="#cb12-2" aria-hidden="true" tabindex="-1"></a>  d <span class="ot">&lt;-</span> mega_analysis <span class="sc">%&gt;%</span></span>
+<span id="cb12-3"><a href="#cb12-3" aria-hidden="true" tabindex="-1"></a>    <span class="fu">filter</span>(ParadigmsCombined_Factor <span class="sc">==</span> paradigm) <span class="sc">%&gt;%</span></span>
+<span id="cb12-4"><a href="#cb12-4" aria-hidden="true" tabindex="-1"></a>    <span class="fu">cohens_d</span>(SocialConnection_Std <span class="sc">~</span> Has_Phone, <span class="at">data =</span> .)   </span>
+<span id="cb12-5"><a href="#cb12-5" aria-hidden="true" tabindex="-1"></a>  <span class="fu">c</span>(<span class="fu">round</span>(d<span class="sc">$</span>Cohens_d,<span class="dv">2</span>), <span class="fu">round</span>(d<span class="sc">$</span>CI,<span class="dv">2</span>), <span class="fu">round</span>(d<span class="sc">$</span>CI_low,<span class="dv">2</span>), <span class="fu">round</span>(d<span class="sc">$</span>CI_high,<span class="dv">2</span>) )</span>
+<span id="cb12-6"><a href="#cb12-6" aria-hidden="true" tabindex="-1"></a>})</span></code></pre></div><button title="Copy to Clipboard" class="code-copy-button"><i class="bi"></i></button></div>
 <div class="cell-output cell-output-stderr">
 <pre><code>Warning: Missing values detected. NAs dropped.
 Warning: Missing values detected. NAs dropped.
@@ -297,17 +309,17 @@ Warning: Missing values detected. NAs dropped.
 Warning: Missing values detected. NAs dropped.
 Warning: Missing values detected. NAs dropped.</code></pre>
 </div>
-<div class="code-copy-outer-scaffold"><div class="sourceCode cell-code" id="cb15"><pre class="sourceCode r code-with-copy"><code class="sourceCode r"><span id="cb15-1"><a href="#cb15-1" aria-hidden="true" tabindex="-1"></a><span class="fu">rownames</span>(ds) <span class="ot">&lt;-</span> <span class="fu">c</span>(<span class="st">"d"</span>, <span class="st">"CI"</span>, <span class="st">"CIl"</span>, <span class="st">"CIh"</span>)</span>
-<span id="cb15-2"><a href="#cb15-2" aria-hidden="true" tabindex="-1"></a>ds <span class="ot">&lt;-</span> <span class="fu">as.data.frame</span>(<span class="fu">t</span>(ds))</span>
-<span id="cb15-3"><a href="#cb15-3" aria-hidden="true" tabindex="-1"></a>ds<span class="sc">$</span>Paradigma <span class="ot">&lt;-</span> <span class="fu">levels</span>(mega_analysis<span class="sc">$</span>ParadigmsCombined_Factor)</span>
-<span id="cb15-4"><a href="#cb15-4" aria-hidden="true" tabindex="-1"></a></span>
-<span id="cb15-5"><a href="#cb15-5" aria-hidden="true" tabindex="-1"></a><span class="fu">ggplot</span>(<span class="at">data=</span>ds, <span class="fu">aes</span>(<span class="at">xmin=</span>CIl, <span class="at">xmax=</span>CIh, <span class="at">x=</span>d, <span class="at">y=</span>Paradigma)) <span class="sc">+</span></span>
-<span id="cb15-6"><a href="#cb15-6" aria-hidden="true" tabindex="-1"></a>  <span class="fu">geom_errorbar</span>(<span class="fu">aes</span>(<span class="at">xmin=</span>CIl, <span class="at">xmax=</span>CIh), <span class="at">width=</span><span class="fl">0.1</span> )<span class="sc">+</span></span>
-<span id="cb15-7"><a href="#cb15-7" aria-hidden="true" tabindex="-1"></a>  <span class="fu">geom_point</span>()<span class="sc">+</span></span>
-<span id="cb15-8"><a href="#cb15-8" aria-hidden="true" tabindex="-1"></a>  <span class="fu">geom_text</span>(<span class="fu">aes</span>(<span class="at">label =</span> d), <span class="at">nudge_y =</span> <span class="fl">0.2</span>, <span class="at">check_overlap =</span> <span class="cn">TRUE</span>)<span class="sc">+</span></span>
-<span id="cb15-9"><a href="#cb15-9" aria-hidden="true" tabindex="-1"></a>  <span class="fu">geom_vline</span>(<span class="at">xintercept =</span> <span class="dv">0</span>, <span class="at">linetype =</span> <span class="st">"dashed"</span>, <span class="at">color =</span> <span class="st">"red"</span>, <span class="at">linewidth =</span> <span class="fl">0.5</span>)<span class="sc">+</span></span>
-<span id="cb15-10"><a href="#cb15-10" aria-hidden="true" tabindex="-1"></a>  <span class="fu">labs</span>(<span class="at">title=</span><span class="st">"d de Cohen por Paradigma"</span>, <span class="at">subtitle =</span> <span class="st">"Sin teléfono vs Con teléfono"</span>)<span class="sc">+</span></span>
-<span id="cb15-11"><a href="#cb15-11" aria-hidden="true" tabindex="-1"></a>  <span class="fu">theme_classic</span>()</span></code></pre></div><button title="Copy to Clipboard" class="code-copy-button"><i class="bi"></i></button></div>
+<div class="code-copy-outer-scaffold"><div class="sourceCode cell-code" id="cb14"><pre class="sourceCode r code-with-copy"><code class="sourceCode r"><span id="cb14-1"><a href="#cb14-1" aria-hidden="true" tabindex="-1"></a><span class="fu">rownames</span>(ds) <span class="ot">&lt;-</span> <span class="fu">c</span>(<span class="st">"d"</span>, <span class="st">"CI"</span>, <span class="st">"CIl"</span>, <span class="st">"CIh"</span>)</span>
+<span id="cb14-2"><a href="#cb14-2" aria-hidden="true" tabindex="-1"></a>ds <span class="ot">&lt;-</span> <span class="fu">as.data.frame</span>(<span class="fu">t</span>(ds))</span>
+<span id="cb14-3"><a href="#cb14-3" aria-hidden="true" tabindex="-1"></a></span>
+<span id="cb14-4"><a href="#cb14-4" aria-hidden="true" tabindex="-1"></a>ds<span class="sc">$</span>Paradigma <span class="ot">&lt;-</span> <span class="fu">factor</span>(<span class="fu">rownames</span>(ds), <span class="at">levels=</span><span class="fu">c</span>(<span class="st">"Tech Directions"</span>, <span class="st">"Parents with Childen"</span>,<span class="st">"Strong Ties Meal"</span>,<span class="st">"Weak Ties Meal"</span>, <span class="st">"Waiting Room Alone"</span>, <span class="st">"Waiting Room Together"</span>), <span class="at">ordered =</span> T)</span>
+<span id="cb14-5"><a href="#cb14-5" aria-hidden="true" tabindex="-1"></a><span class="fu">ggplot</span>(<span class="at">data=</span>ds, <span class="fu">aes</span>(<span class="at">xmin=</span>CIl, <span class="at">xmax=</span>CIh, <span class="at">x=</span>d, <span class="at">y=</span>Paradigma)) <span class="sc">+</span></span>
+<span id="cb14-6"><a href="#cb14-6" aria-hidden="true" tabindex="-1"></a>  <span class="fu">geom_errorbar</span>(<span class="fu">aes</span>(<span class="at">xmin=</span>CIl, <span class="at">xmax=</span>CIh), <span class="at">width=</span><span class="fl">0.1</span> )<span class="sc">+</span></span>
+<span id="cb14-7"><a href="#cb14-7" aria-hidden="true" tabindex="-1"></a>  <span class="fu">geom_point</span>()<span class="sc">+</span></span>
+<span id="cb14-8"><a href="#cb14-8" aria-hidden="true" tabindex="-1"></a>  <span class="fu">geom_text</span>(<span class="fu">aes</span>(<span class="at">label =</span> d), <span class="at">nudge_y =</span> <span class="fl">0.2</span>, <span class="at">check_overlap =</span> <span class="cn">TRUE</span>)<span class="sc">+</span></span>
+<span id="cb14-9"><a href="#cb14-9" aria-hidden="true" tabindex="-1"></a>  <span class="fu">geom_vline</span>(<span class="at">xintercept =</span> <span class="dv">0</span>, <span class="at">linetype =</span> <span class="st">"dashed"</span>, <span class="at">color =</span> <span class="st">"red"</span>, <span class="at">linewidth =</span> <span class="fl">0.5</span>)<span class="sc">+</span></span>
+<span id="cb14-10"><a href="#cb14-10" aria-hidden="true" tabindex="-1"></a>  <span class="fu">labs</span>(<span class="at">title=</span><span class="st">"d de Cohen por Paradigma"</span>, <span class="at">subtitle =</span> <span class="st">"Sin teléfono vs Con teléfono"</span>)<span class="sc">+</span></span>
+<span id="cb14-11"><a href="#cb14-11" aria-hidden="true" tabindex="-1"></a>  <span class="fu">theme_classic</span>()</span></code></pre></div><button title="Copy to Clipboard" class="code-copy-button"><i class="bi"></i></button></div>
 <div class="cell-output-display">
 <div>
 <figure class="figure">
